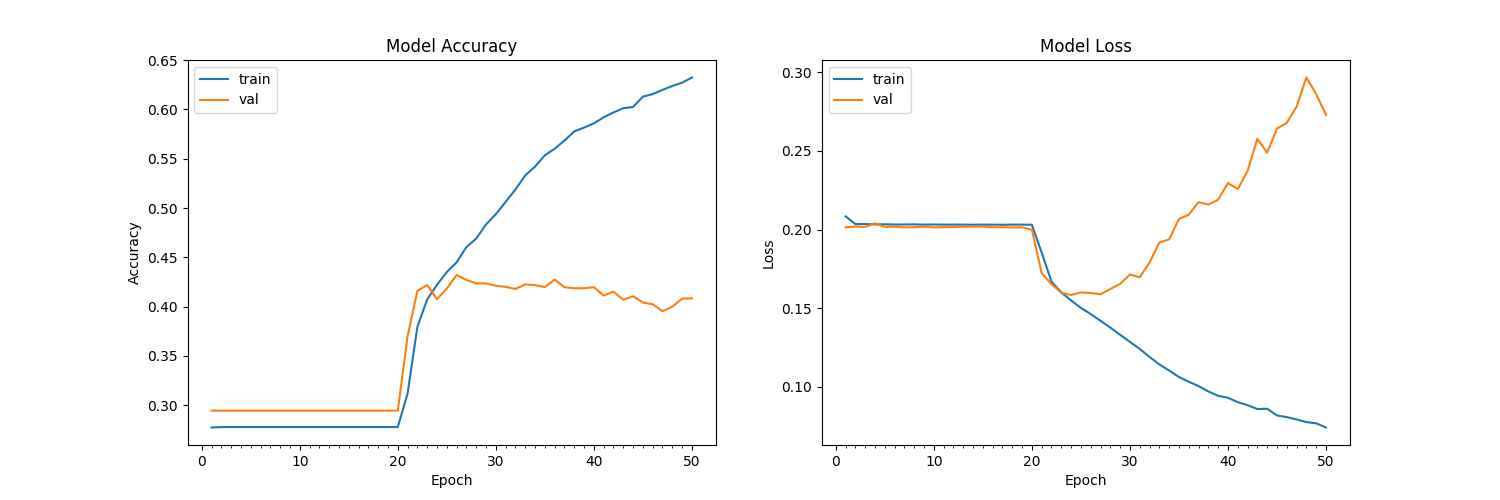
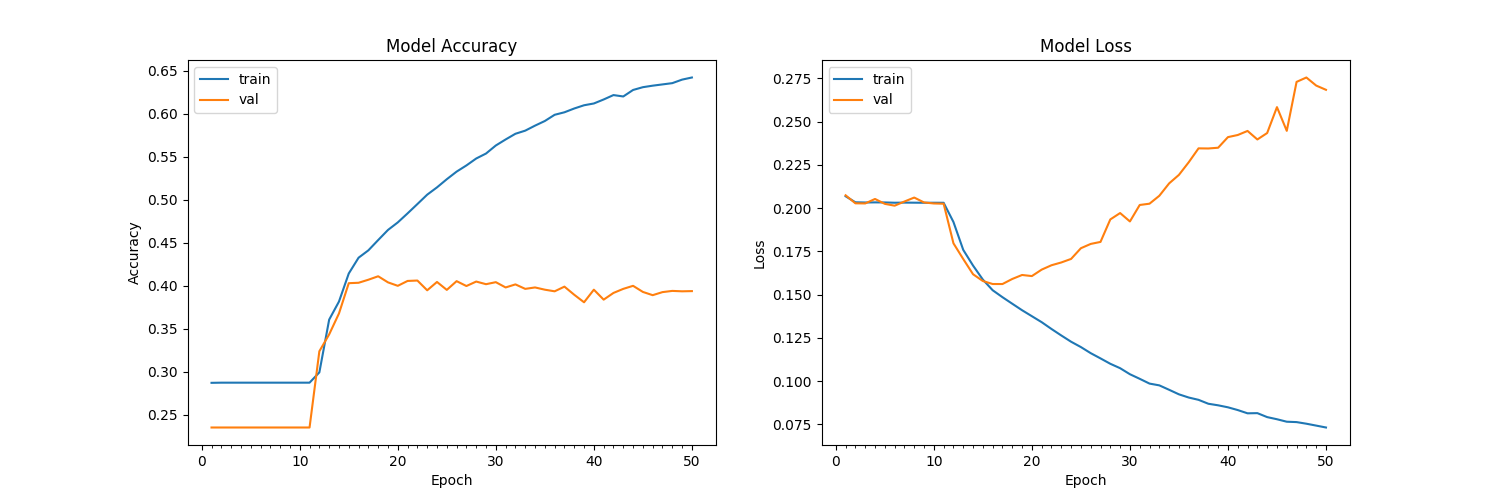
training with dropout

diff --git a/trainModel.py b/trainModel.py
@@ -159,6 +159,9 @@ def GenreClassifierV2(input_shape, word_to_vec_map, word_to_index, nbClasses):
     # Propagate the embeddings through an LSTM layer with 128-dimensional hidden state
     # output is a batch of sequences
     X = LSTM(100, return_sequences = False)(X)
+
+    # Add dropout with a probability of 0.5
+    X = Dropout(0.5)(X)
     
     # Propagate X through a Dense layer with softmax activation to get back a batch of 23-dimensional vectors.
     X = Dense(nbClasses)(X)
@@ -281,7 +284,7 @@ def trainModelV2(X_train_indices, Y_train_oh, word_to_vec_map, word_to_index, ma
 	model.compile(loss=loss, optimizer=optimizer, metrics=['accuracy'])
 
 	#earlystop = EarlyStopping(monitor='val_acc', min_delta=0.0001, patience=3, verbose=1, mode='auto')
-	modelcheckVal = ModelCheckpoint('modelsAWS2/allDataWeighted_validation-weights-improvement-{epoch:02d}-{val_acc:.2f}.h5', monitor='val_acc', period=5, verbose=1, save_best_only=True, mode='max')
+	modelcheckVal = ModelCheckpoint('modelsAWS2/allDataDropoutWeighted_validation-weights-improvement-{epoch:02d}-{val_acc:.2f}.h5', monitor='val_acc', period=5, verbose=1, save_best_only=True, mode='max')
 	callbacks_list = [modelcheckVal] #, modelcheckTrain]
 
 	history = model.fit(X_train_indices, Y_train_oh, epochs = 50, 
@@ -302,7 +305,7 @@ def trainModel(X_train_indices, Y_train_oh, word_to_vec_map, word_to_index, max_
     model.compile(loss=loss, optimizer=optimizer, metrics=['accuracy'])
     
     #earlystop = EarlyStopping(monitor='val_acc', min_delta=0.0001, patience=3, verbose=1, mode='auto')
-    modelcheckVal = ModelCheckpoint('modelsAWS/allData_validation-weights-improvement-{epoch:02d}-{val_acc:.2f}.h5', monitor='val_acc', period =5, verbose=1, save_best_only=True, mode='max')
+    modelcheckVal = ModelCheckpoint('modelsAWS/allDataDropout_validation-weights-improvement-{epoch:02d}-{val_acc:.2f}.h5', monitor='val_acc', period =5, verbose=1, save_best_only=True, mode='max')
     callbacks_list = [modelcheckVal] #, modelcheckTrain]
     
     history = model.fit(X_train_indices, Y_train_oh, epochs = 50, 
@@ -340,7 +343,7 @@ y_train_oh = convert_to_one_hot(y_train, C = len(df["genres"].unique()))
 history, model = trainModelV2(X_train_indices, y_train_oh, word_to_vec_map, word_to_index, max_length = max_sequence_length)
 
 # generate a plot of the model's progress over time and save the figure
-plot_model_history(history, 'graphs/weighted_model_categorialloss.png')
+plot_model_history(history, 'graphs/weighted_model_categorialloss_dropout.png')
 
 # evaluate the accuracy of the model on the test set
 '''
@@ -358,7 +361,7 @@ history, model = trainModel(X_train_indices, y_train_oh, word_to_vec_map, word_t
 #model.save_weights("models/Epochs50_Adam_CCloss_V2.h5") 
 
 # generate a plot of the model's progress over time and save the figure
-plot_model_history(history, 'graphs/model_categorialloss.png')
+plot_model_history(history, 'graphs/model_categorialloss_dropout.png')
 
 # evaluate the accuracy of the model on the test set
 '''
